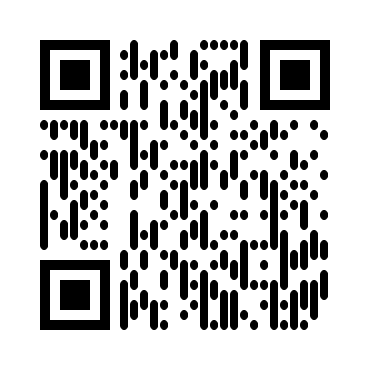
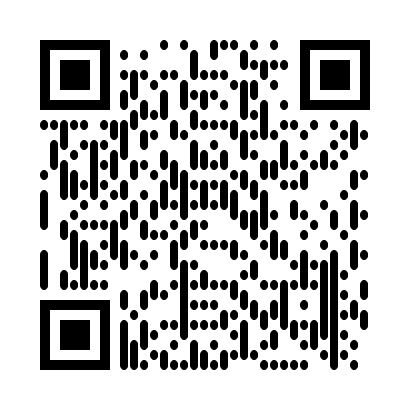
More Commands
Added more commands

diff --git a/bot.py b/bot.py
@@ -11,25 +11,25 @@ from qrcode.image.styles.moduledrawers.pil import VerticalBarsDrawer
 load_dotenv()
 
 def get_cat():
-  response = requests.get('https://api.thecatapi.com/v1/images/search?breed_ids=ctif&api_key={}'.format(os.getenv('CAT_KEY')))
-  json_data = json.loads(response.text)
-  retImg = json_data[0]['url']
-  retImg2 = retImg.replace('(','').replace(')','')
-  print(retImg2)
-  return retImg2
+   response = requests.get('https://api.thecatapi.com/v1/images/search?breed_ids=ctif&api_key={}'.format(os.getenv('CAT_KEY')))
+   json_data = json.loads(response.text)
+   retImg = json_data[0]['url']
+   retImg2 = retImg.replace('(','').replace(')','')
+   print(retImg2)
+   return retImg2
 
 def get_dog():
-  response = requests.get('https://api.thedogapi.com/v1/images/search?api_key={}'.format(os.getenv('DOG_KEY')))
-  json_data = json.loads(response.text)
-  retImg = json_data[0]['url']
-  retImg2 = retImg.replace('(','').replace(')','')
-  print(retImg2)
-  return retImg2
+   response = requests.get('https://api.thedogapi.com/v1/images/search?api_key={}'.format(os.getenv('DOG_KEY')))
+   json_data = json.loads(response.text)
+   retImg = json_data[0]['url']
+   retImg2 = retImg.replace('(','').replace(')','')
+   print(retImg2)
+   return retImg2
 
-def get_bent(link):
+def get_qr(link):
    qr = qrcode.QRCode(error_correction=qrcode.constants.ERROR_CORRECT_L)
    qr.add_data(link)
-   fCode = qr.make_image(image_factory=StyledPilImage, back_color='black', fill_color='blue', module_drawer=VerticalBarsDrawer())
+   fCode = qr.make_image(image_factory=StyledPilImage, back_color=(0, 0, 0), fill_color=(14, 103, 199), module_drawer=VerticalBarsDrawer())
    fCode.save("qrImage.png")
    return
 
@@ -42,6 +42,35 @@ def get_educated():
   retStatement= "Fun Fact: {}".format(moddedFact)
   return retStatement
  
+def get_verified(link):
+  response = requests.get('https://api.api-ninjas.com/v1/urllookup?url={}'.format(link), headers={'X-Api-Key':'{}'.format(os.getenv('NINJA_KEY'))})
+  resFix = json.loads(response.text)
+  print(resFix)
+  is_valid = resFix['is_valid']
+  isp = resFix['isp']
+  country = resFix['country']
+  region = resFix['region']
+  city = resFix['city']
+  timezone = resFix['timezone']
+  url = resFix['url']
+  print(is_valid)
+  cDone = "This is the info we've found at {0}: \n is_valid: {1} \n ISP: {6} \n Country: {2} \n Region: {3} \n City: {4} \n Timezone: {5}".format(url,is_valid,country,region,city,timezone, isp)
+  return cDone
+
+def get_punny():
+  response = requests.get('https://punapi.rest/api/pun')
+  print(response)
+  punFix = json.loads(response.text)
+  print(punFix)
+  return
+
+def get_webby(city):
+  response = requests.get('https://api.api-ninjas.com/v1/weather?city={}'.format(city), headers={'X-Api-Key':'{}'.format(os.getenv('NINJA_KEY'))})
+  print(response)
+  weather = json.loads(response.text)
+  print(weather)
+  return
+  
  # Facts are a premium feature with the API, so no go for now
 
 # def get_facts():
@@ -67,6 +96,8 @@ class MyClient(discord.Client):
       return
     elif message.content.startswith('$hello'):
       await message.channel.send('Hello Darling!')
+    elif message.content.startswith('$pat'):
+      await message.channel.send('**Wags tail enthusiastically** Arf arf!')
     elif message.content.startswith('$roll'):
       luckyRoll = random.randint(1,20)
       match luckyRoll:
@@ -97,13 +128,23 @@ class MyClient(discord.Client):
     elif message.content.startswith('$qr'):
        print(message.content[4:]) #Link for QR Code
        link = message.content[4:]
-       get_bent(link)
+       get_qr(link)
        print('Pow')
        await message.channel.send(f'Here you go, {message.author}!')
        await message.channel.send(file=discord.File('qrImage.png'))
        print('Job done :P')
     elif message.content.startswith('$fact'):
-            await message.channel.send(get_educated())
+       await message.channel.send(get_educated())
+    elif message.content.startswith('$pun'):
+       await message.channel.send(get_punny())
+    elif message.content.startswith('$weather'):
+       city = message.content[9:]
+       print(city)
+       await message.channel.send(get_webby(city))
+    elif message.content.startswith('$ver'):
+       link = message.content[5:]
+       await message.channel.send(get_verified(link))
+       print('Verfication Done')
 
 intents = discord.Intents.default()
 intents.message_content = True
